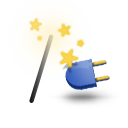
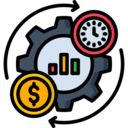
..

diff --git a/Plugins/CharacterDemo/Source/CharacterDemo/Private/BaseCharacter.cpp b/Plugins/CharacterDemo/Source/CharacterDemo/Private/BaseCharacter.cpp
@@ -1,7 +1,5 @@
-// Fill out your copyright notice in the Description page of Project Settings.
-
-
 #include "BaseCharacter.h"
+#include "LocomotionComponent.h"
 
 // Sets default values
 ABaseCharacter::ABaseCharacter()
@@ -20,7 +18,8 @@ ABaseCharacter::ABaseCharacter()
 	//GetCharacterMovement()->SetTickGroup(ETickingGroup::TG_PostPhysics);
 	bUseControllerRotationYaw = false;
 	LocomotionComponent = CreateDefaultSubobject<ULocomotionComponent>(TEXT("LocomotionComponent"));
-	
+	LocomotionComponent->OnUpdateMovement.AddDynamic(this, &ABaseCharacter::UpdateMovement);
+	LocomotionComponent->OnUpdateMovement.AddDynamic(this, &ABaseCharacter::UpdateMovement);
 }
 
 // Called when the game starts or when spawned
@@ -28,6 +27,54 @@ void ABaseCharacter::BeginPlay()
 {
 	Super::BeginPlay();
 	GetCharacterMovement()->AddTickPrerequisiteComponent(LocomotionComponent);
+	
+}
+
+void ABaseCharacter::UpdateMovement_Implementation()
+{
+	if (NoTraversalActive())
+	{
+		LocomotionComponent->UpdateGait();
+		LocomotionComponent->UpdateDynamicMovementSettings();
+	}
+}
+
+void ABaseCharacter::UpdateRotation_Implementation()
+{
+	if (NoTraversalActive())
+	{
+		if (IsPlayerControlled())
+		{
+			if (CanActivateSoftLock())
+			{
+				SoftLockRotation();
+			}
+		}
+		if (GetCurrentInputState().WantsToAim || GetCurrentInputState().WantsToStrafe)
+		{
+			GetCharacterMovement()->bOrientRotationToMovement = false;
+			GetCharacterMovement()->bUseControllerDesiredRotation = true;
+		}
+		else
+		{
+			GetCharacterMovement()->bOrientRotationToMovement = true;
+			GetCharacterMovement()->bUseControllerDesiredRotation = false;
+		}
+		if (GetCharacterMovement()->IsFalling() || JustFinishedParkour())
+		{
+			GetCharacterMovement()->RotationRate = FRotator(0.f, 200.f, 0.f);
+		}
+		else
+		{
+			GetCharacterMovement()->RotationRate = FRotator(0.f, -1.f, 0.f);
+		}
+	}
+	else
+	{
+		GetCharacterMovement()->bOrientRotationToMovement = false;
+		GetCharacterMovement()->bUseControllerDesiredRotation = false;
+		GetCharacterMovement()->RotationRate = FRotator(0.f, 200.f, 0.f);
+	}
 }
 
 // Called every frame

diff --git a/Plugins/ParkourSystem/Source/ParkourSystem/Private/BaseParkour.cpp b/Plugins/ParkourSystem/Source/ParkourSystem/Private/BaseParkour.cpp
@@ -1,0 +1,34 @@
+// Fill out your copyright notice in the Description page of Project Settings.
+
+
+#include "BaseParkour.h"
+
+// Sets default values for this component's properties
+UBaseParkour::UBaseParkour()
+{
+	// Set this component to be initialized when the game starts, and to be ticked every frame.  You can turn these features
+	// off to improve performance if you don't need them.
+	PrimaryComponentTick.bCanEverTick = true;
+
+	// ...
+}
+
+
+// Called when the game starts
+void UBaseParkour::BeginPlay()
+{
+	Super::BeginPlay();
+
+	// ...
+	
+}
+
+
+// Called every frame
+void UBaseParkour::TickComponent(float DeltaTime, ELevelTick TickType, FActorComponentTickFunction* ThisTickFunction)
+{
+	Super::TickComponent(DeltaTime, TickType, ThisTickFunction);
+
+	// ...
+}
+

diff --git a/Plugins/ParkourSystem/Source/ParkourSystem/Public/BaseParkour.h b/Plugins/ParkourSystem/Source/ParkourSystem/Public/BaseParkour.h
@@ -1,0 +1,28 @@
+// Fill out your copyright notice in the Description page of Project Settings.
+
+#pragma once
+
+#include "CoreMinimal.h"
+#include "Components/ActorComponent.h"
+#include "BaseParkour.generated.h"
+
+
+UCLASS( ClassGroup=(Custom), meta=(BlueprintSpawnableComponent) )
+class PARKOURSYSTEM_API UBaseParkour : public UActorComponent
+{
+	GENERATED_BODY()
+
+public:	
+	// Sets default values for this component's properties
+	UBaseParkour();
+
+protected:
+	// Called when the game starts
+	virtual void BeginPlay() override;
+
+public:	
+	// Called every frame
+	virtual void TickComponent(float DeltaTime, ELevelTick TickType, FActorComponentTickFunction* ThisTickFunction) override;
+
+		
+};

diff --git a/Plugins/CharacterDemo/Source/CharacterDemo/Public/BaseCharacter.h b/Plugins/CharacterDemo/Source/CharacterDemo/Public/BaseCharacter.h
@@ -1,10 +1,15 @@
 #pragma once
 #include "CoreMinimal.h"
 #include "GameFramework/Character.h"
-#include "LocomotionComponent.h"
 #include "GameFramework/CharacterMovementComponent.h"
 #include "Perception/AISightTargetInterface.h" 
 #include "BaseCharacter.generated.h"
+
+class ULocomotionComponent;
+
+DECLARE_DYNAMIC_MULTICAST_DELEGATE(FOnParkourFinished);
+DECLARE_DYNAMIC_MULTICAST_DELEGATE(FOnInteractFinished);
+DECLARE_DYNAMIC_MULTICAST_DELEGATE(FOnTraversalFinished);
 
 UCLASS()
 class CHARACTERDEMO_API ABaseCharacter : public ACharacter, public IAISightTargetInterface
@@ -47,4 +52,21 @@ public:
 
 	UFUNCTION(BlueprintPure, BlueprintCallable, Category = "Input")
 	FStruct_CharacterInputState GetCurrentInputState();
+	
+// variables and functions needed in blueprint override
+public:
+	UFUNCTION(BlueprintImplementableEvent, BlueprintPure,  BlueprintCallable, Category = "Combat") FRotator GetLockOnTargetRotation() ;
+	UFUNCTION(BlueprintImplementableEvent, BlueprintPure, BlueprintCallable, Category = "Combat") bool IsDefending() ;
+	UFUNCTION(BlueprintImplementableEvent, BlueprintPure, BlueprintCallable, Category = "Combat") bool CanActivateSoftLock() ;
+	UFUNCTION(BlueprintImplementableEvent, BlueprintPure, BlueprintCallable, Category = "Combat") bool NoCombatActive() ;
+	UFUNCTION(BlueprintImplementableEvent, BlueprintCallable, Category = "Combat") void SoftLockRotation();
+	UFUNCTION(BlueprintImplementableEvent, BlueprintPure, BlueprintCallable, Category = "Parkour") bool NoParkourActive() ;
+	UFUNCTION(BlueprintImplementableEvent, BlueprintPure, BlueprintCallable, Category = "Parkour") bool NoTraversalActive() ;
+	UFUNCTION(BlueprintImplementableEvent, BlueprintPure, BlueprintCallable, Category = "Parkour") bool CanDoTraversal() ;
+	UFUNCTION(BlueprintImplementableEvent, BlueprintPure, BlueprintCallable, Category = "Parkour") bool JustFinishedParkour() ;
+	UFUNCTION(BlueprintImplementableEvent, BlueprintCallable, Category = "Parkour") void TryToParkour() ;
+	UFUNCTION(BlueprintImplementableEvent, BlueprintCallable, Category = "Interact") void TryToInteract(bool Pressed) ;
+	
+	UFUNCTION(BlueprintNativeEvent, BlueprintCallable, Category = "Locomotion") void UpdateMovement();
+	UFUNCTION(BlueprintNativeEvent, BlueprintCallable, Category = "Locomotion") void UpdateRotation();
 };